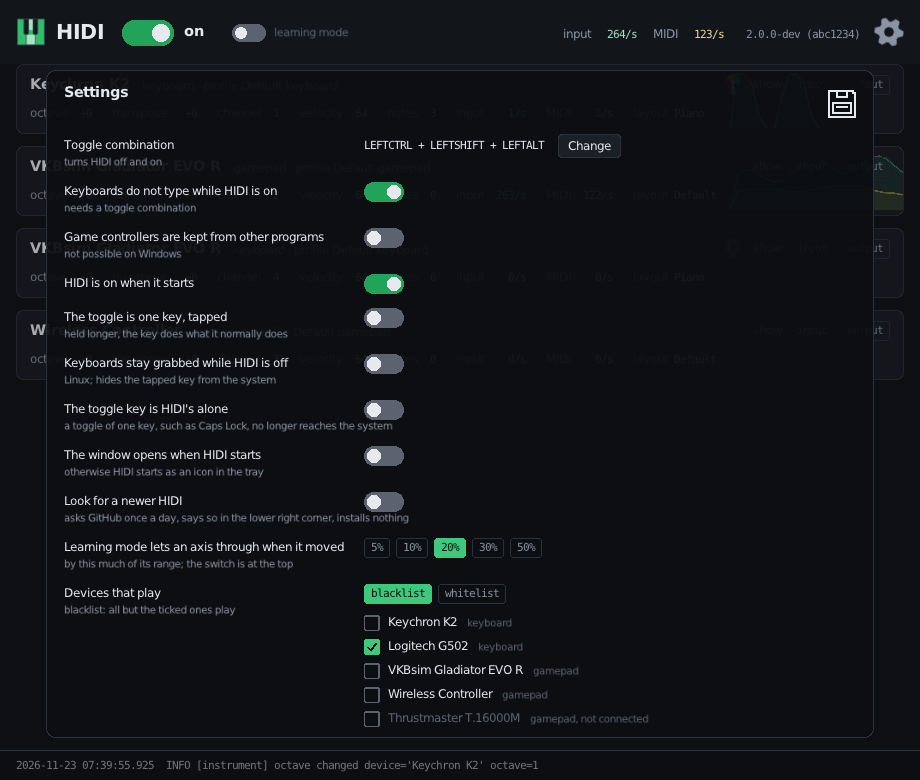
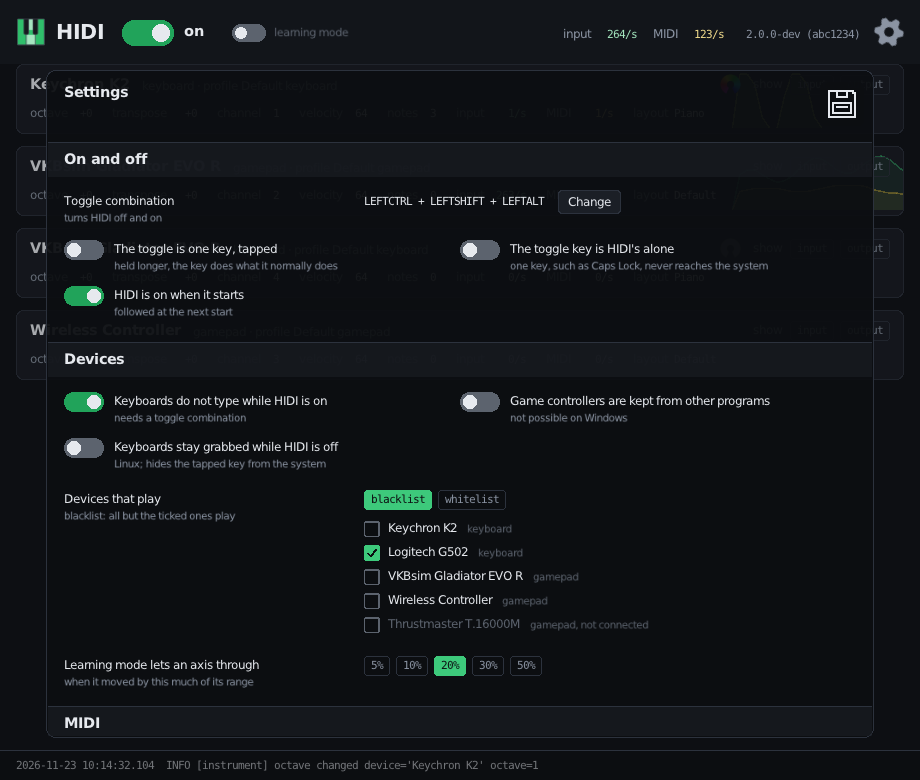
Docs: the eighth round
README: settings in sections and in use at once; carrying bindings in
the profile editor; the sign of the lights is a ring now. Configuration
reference: that the sheet hands changes to the running HIDI before they
are written. Roadmap: what was reported and done, what the broken window
on a scaled display was, and what is known and not known about the
monitors staying on.

Claude-Session: https://claude.ai/code/session_01BSpi87DutHCzCjSX2Ru5Rd

diff --git a/docs/roadmap.md b/docs/roadmap.md
@@ -81,6 +81,18 @@ is moved or resized on Windows. The branch is kept for when the change has
 found its way into raylib, or raylib-go 0.63 is taken up; it does not have
 the sixth round.
 
+### Eighth round (23 November 2026): what was reported, and what was done
+
+| Reported or asked for | Done |
+|---|---|
+| The window was broken on Windows: drawn wrong, and the pointer did not hit what it showed | The size of the interface had been laid on with raylib's camera mode, which in this raylib throws the scaling of the display away. On a display set to anything but 100 % (the maintainer's is at 125 %) everything was drawn smaller than the window's own points, in which the pointer is still measured. The size is now a scaling laid over what `BeginDrawing` sets up. **Not seen on a scaled display**: GLFW did not scale under Xvfb whatever was tried, so this rests on reading raylib. |
+| HIDI keeps the monitors on | Not found. HIDI asks Windows for nothing of the kind and types nothing by itself. Suspected: Windows counting the reports of game controllers that HIDI has asked Raw Input for as someone using the machine, and a stick that never quite rests sends them all the time; or a request by the MIDI service for HIDI's devices. `powercfg /requests` while HIDI runs, and whether it happens without the stick plugged in, would tell them apart. |
+| The OpenRGB sign simpler | A ring with a hole and a slice cut out below it, both clear; the mesh gradient as before. |
+| Everything that can be clicked lights up under the pointer | Switches, boxes, choices, the colour cells and sliders, the address field, the header's switches, and the controls of the profile editor. |
+| Carrying bindings in the editor | Drag a control onto another: it gets what the first does, and the first does nothing. With Ctrl both do the same. One step to take back. The right button empties a control, with Ctrl leaves a key to the system. `ProfileDoc.Carry`, `config.Get`. |
+| The settings in a better order, in sections, with switches two abreast | Six sections under lines across the sheet: on and off, devices, MIDI, lights, window, profiles. Switches stand two abreast where the sheet is at least 620 points wide, else one below the other. |
+| Settings in use at once | Every change on the sheet is handed to the running HIDI (`settings` on the control socket, `Host.TrySettings`), which takes it over as it does a changed file. Saving only writes. Revert, and closing the window, hand back what the file has. |
+
 ### Waiting for the maintainer
 
 To be tried on Windows, none of which has run there:

diff --git a/README.md b/README.md
@@ -183,7 +183,7 @@ glow in the colours of their lights, so the drawing shows what the keyboard
 shows. Every other device shows the buttons and axes it has reported so far.
 While HIDI is off, what is pressed shows in grey.
 
-Every keyboard has the sign of OpenRGB, a light bulb, beside "show". It is
+Every keyboard has the sign of OpenRGB, a ring of colours, beside "show". It is
 in colour where HIDI drives the keyboard's lights and grey where it does
 not: no OpenRGB, or a keyboard OpenRGB does not know. Click a grey one and
 the drawn keyboard shows what the lights would show; the sign is yellow
@@ -215,11 +215,14 @@ instruments. A click beside the sheet closes it.
 
 ![The settings](docs/images/gui-settings.png)
 
-What is in `settings.toml` can be changed there. Nothing is written until
-you save, with the disk in the corner of the sheet or Ctrl+S: the disk is
-yellow while there is something to save, and "Revert" beside it drops the
-changes. A running HIDI takes most of it over within a few seconds of
-saving; the page says when something matters only at the next start.
+What is in `settings.toml` can be changed there, in sections: turning HIDI
+on and off, the devices, MIDI, the lights, the window, and the profiles.
+A change is in use at once: the running HIDI follows it as you make it, so
+turning on the lights lights them. It is not written, though, until you
+save, with the disk in the corner of the sheet or Ctrl+S. The disk is yellow
+while something is in use that is not saved, and "Revert" beside it takes
+it back. What is not saved when the window closes is taken back too. A few
+settings matter only when HIDI starts, and say so.
 
 - "Change" beside the toggle combination takes a new one from the keyboard:
   press the keys together and let go. One key alone works too, and can then
@@ -266,6 +269,9 @@ opens the profile. A factory profile is shown and cannot be changed;
 shows the numbers an instrument starts with, the layouts, and
 what every control does. A keyboard's profile is drawn as a keyboard,
 coloured by what the keys do; other profiles list their buttons and axes.
+Drag a control onto another to move what it does there, and hold Ctrl
+while doing so to copy it instead. The right mouse button empties a control;
+with Ctrl it leaves a key to the system.
 Click a control, or press it on the device, and make it play a note, send a
 controller, run a command, or do nothing. An axis sends a controller or
 bends the pitch, and has switches for resting in the middle and for being

diff --git a/docs/configuration.md b/docs/configuration.md
@@ -53,7 +53,9 @@ the colours. A keyboard that should type again does so at once. `start_on`,
 mistake is reported and changes nothing.
 
 Everything here can also be changed in the window, on the sheet the gear
-opens. The sheet writes the file
+opens. What is changed there is in use at once, without being written:
+the window hands the running HIDI the settings as they are shown. The sheet
+writes the file
 when you save there, not with every change.
 
 ```toml
